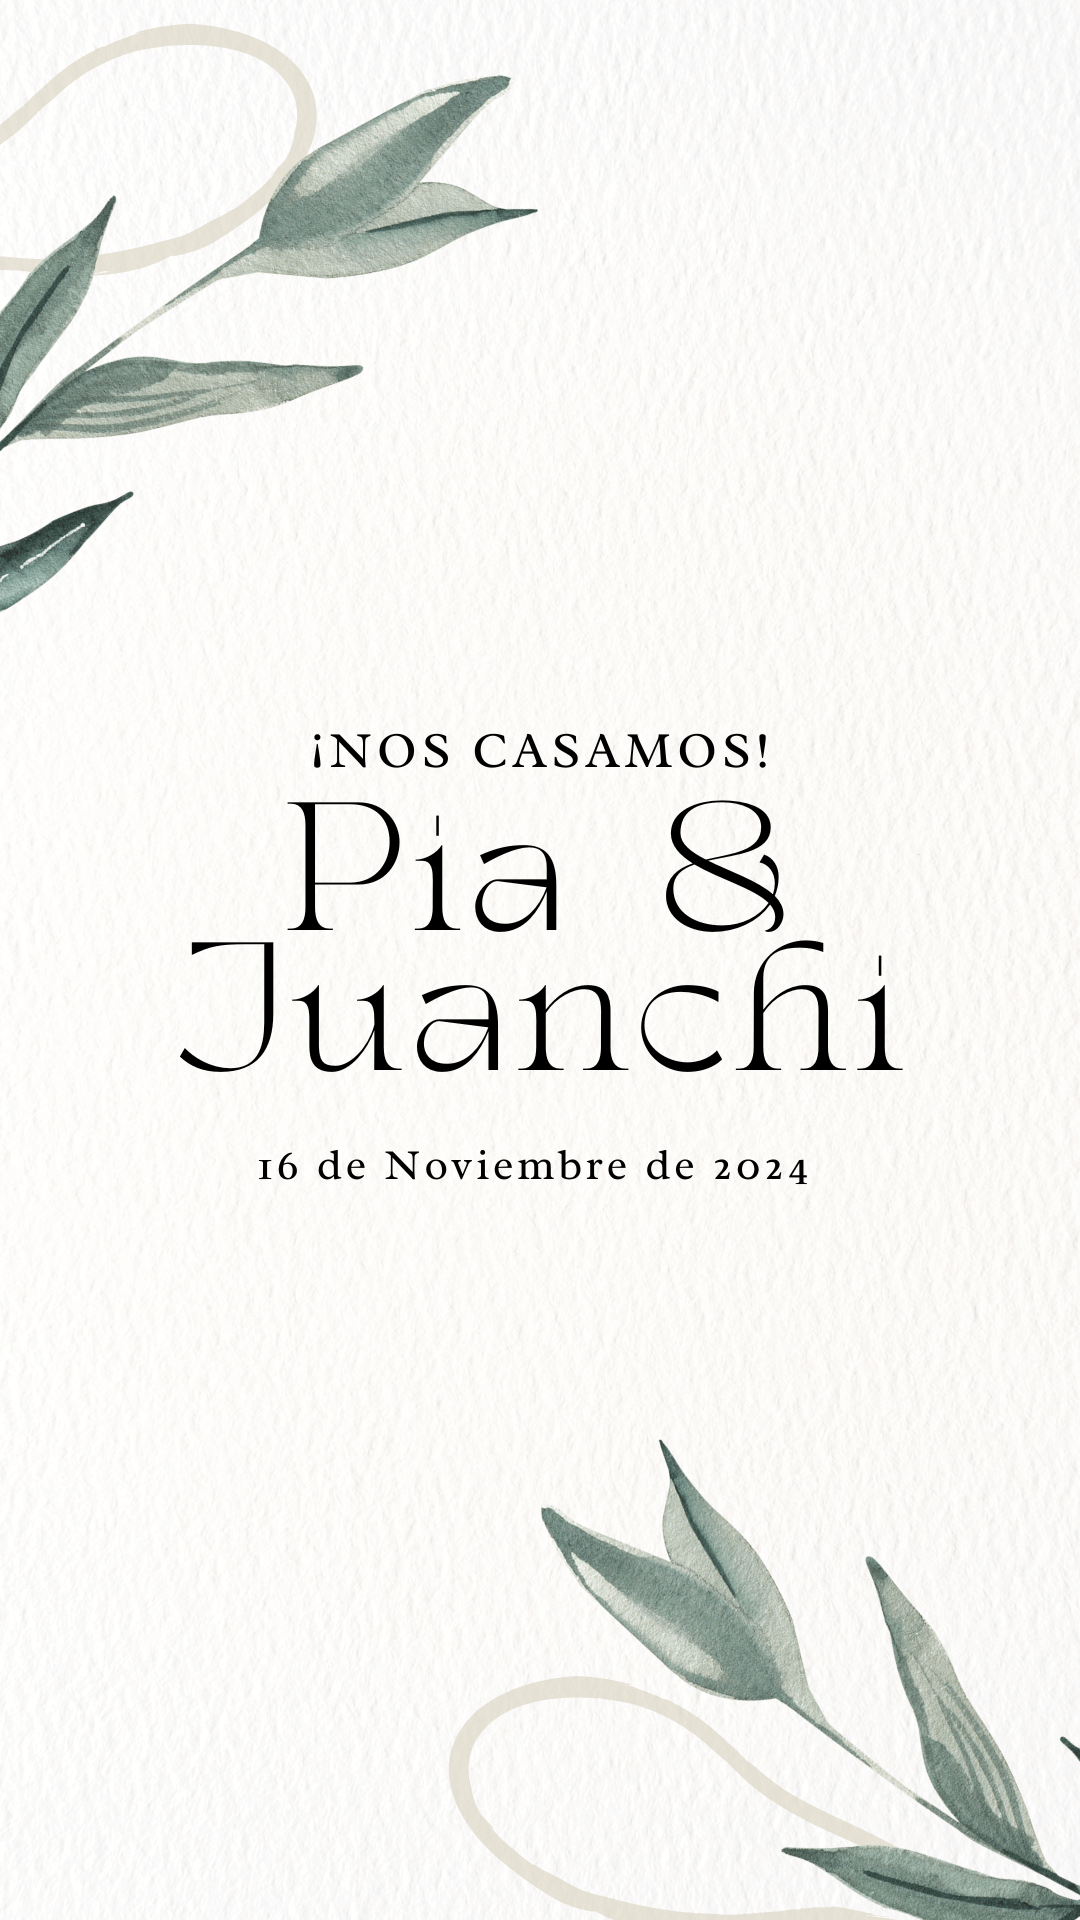
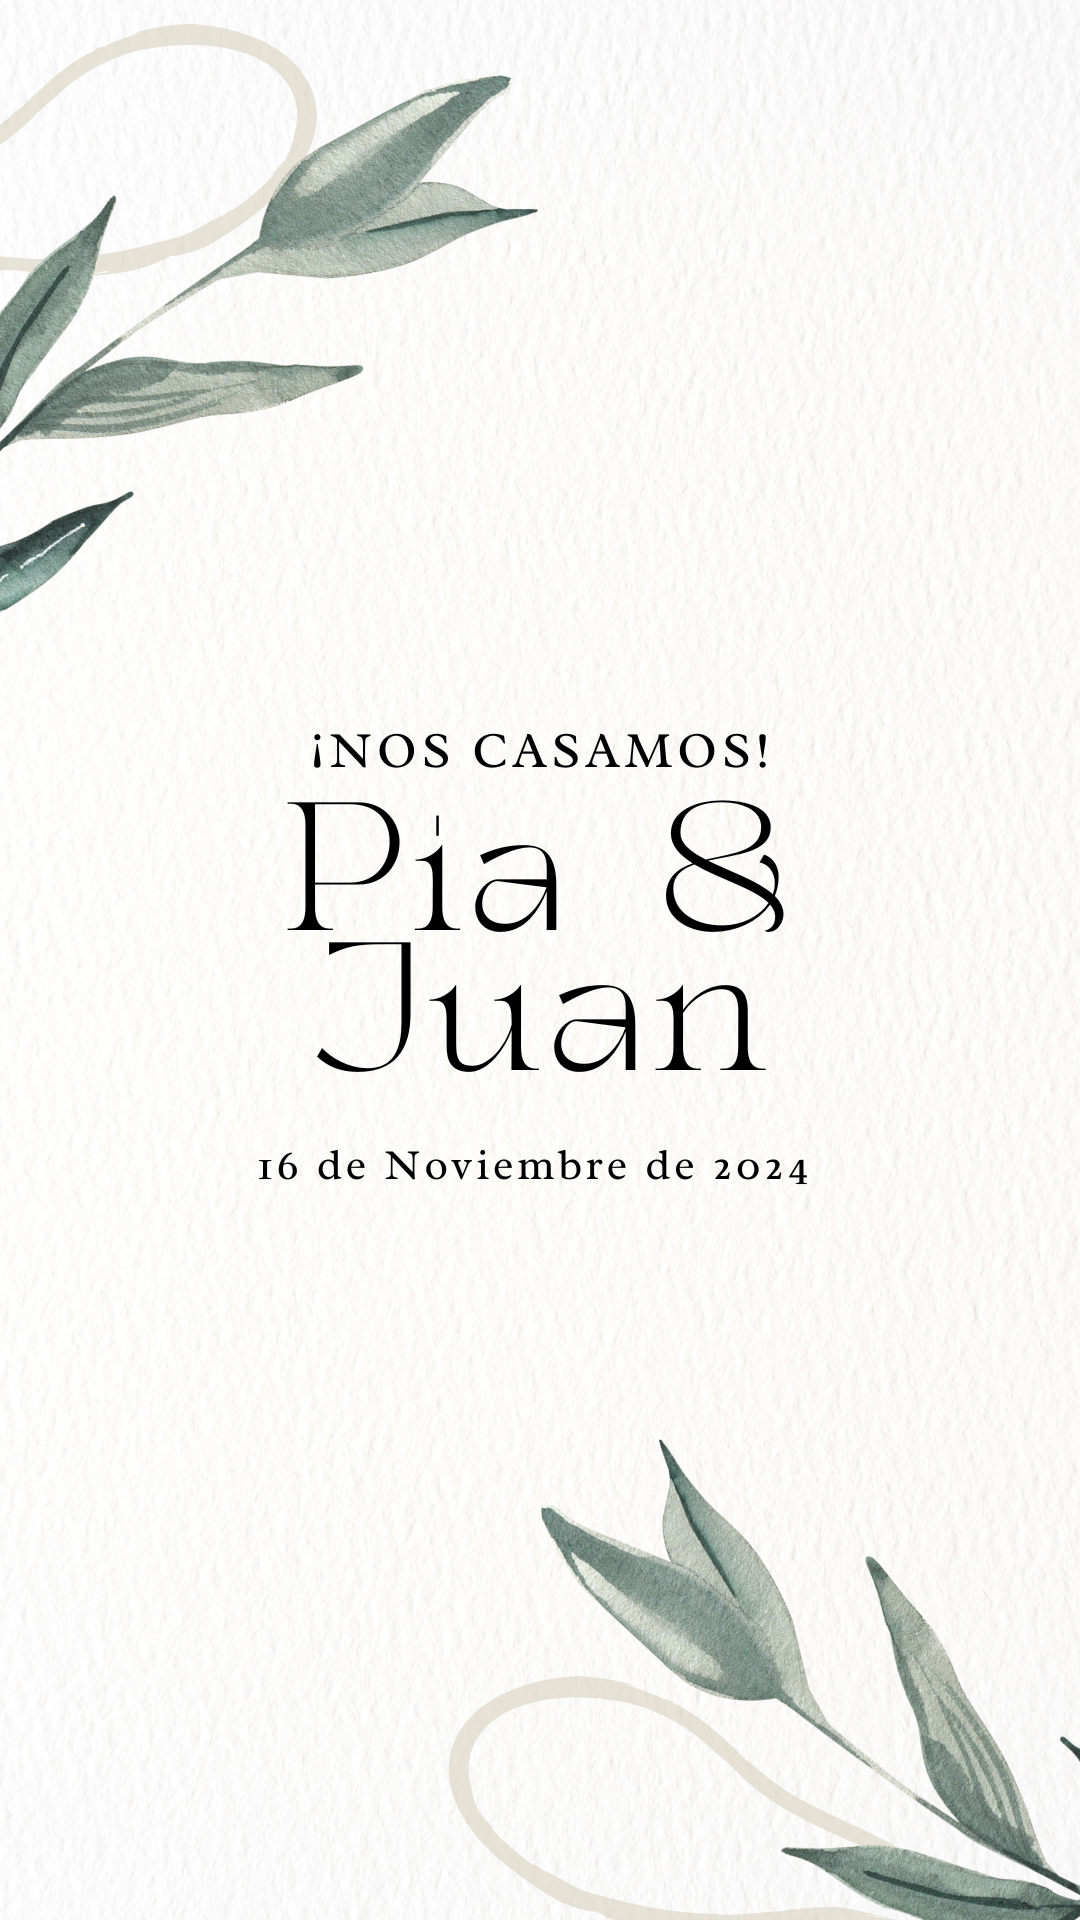
AC
AC

Changed region(s): [[0.2444, 0.4688, 0.825, 0.5625], [0.3056, 0.4688, 0.3361, 0.5], [0.1833, 0.5312, 0.2139, 0.5625]]

diff --git a/index.html b/index.html
@@ -3,7 +3,7 @@
 <head>
     <meta charset="UTF-8">
     <meta name="viewport" content="width=device-width, initial-scale=1.0">
-    <title>PIA Y JUANCHI</title>
+    <title>PIA Y JUAN</title>
     <link rel="stylesheet" href="style.css">
     <link rel="preconnect" href="https://fonts.googleapis.com">
 <link rel="preconnect" href="https://fonts.gstatic.com" crossorigin>
